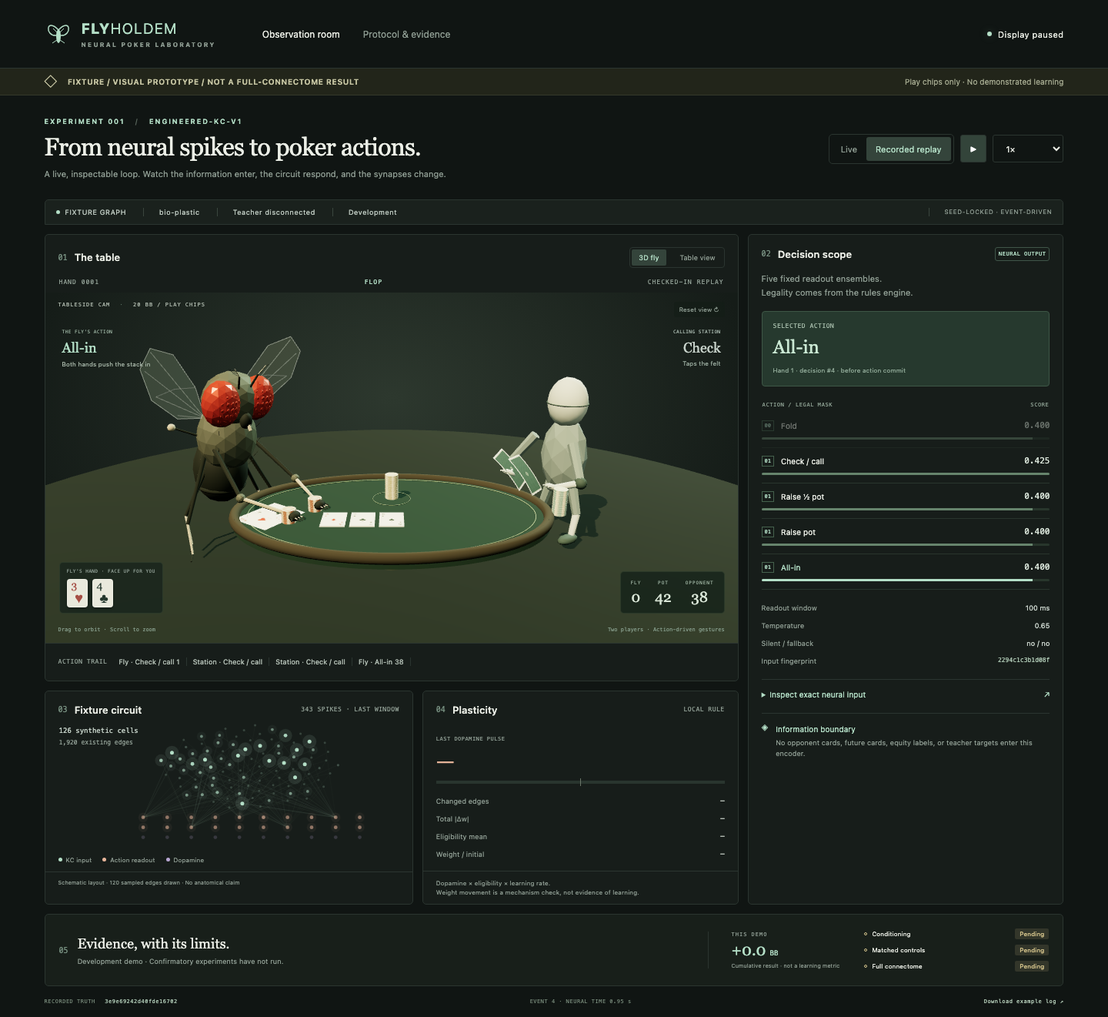
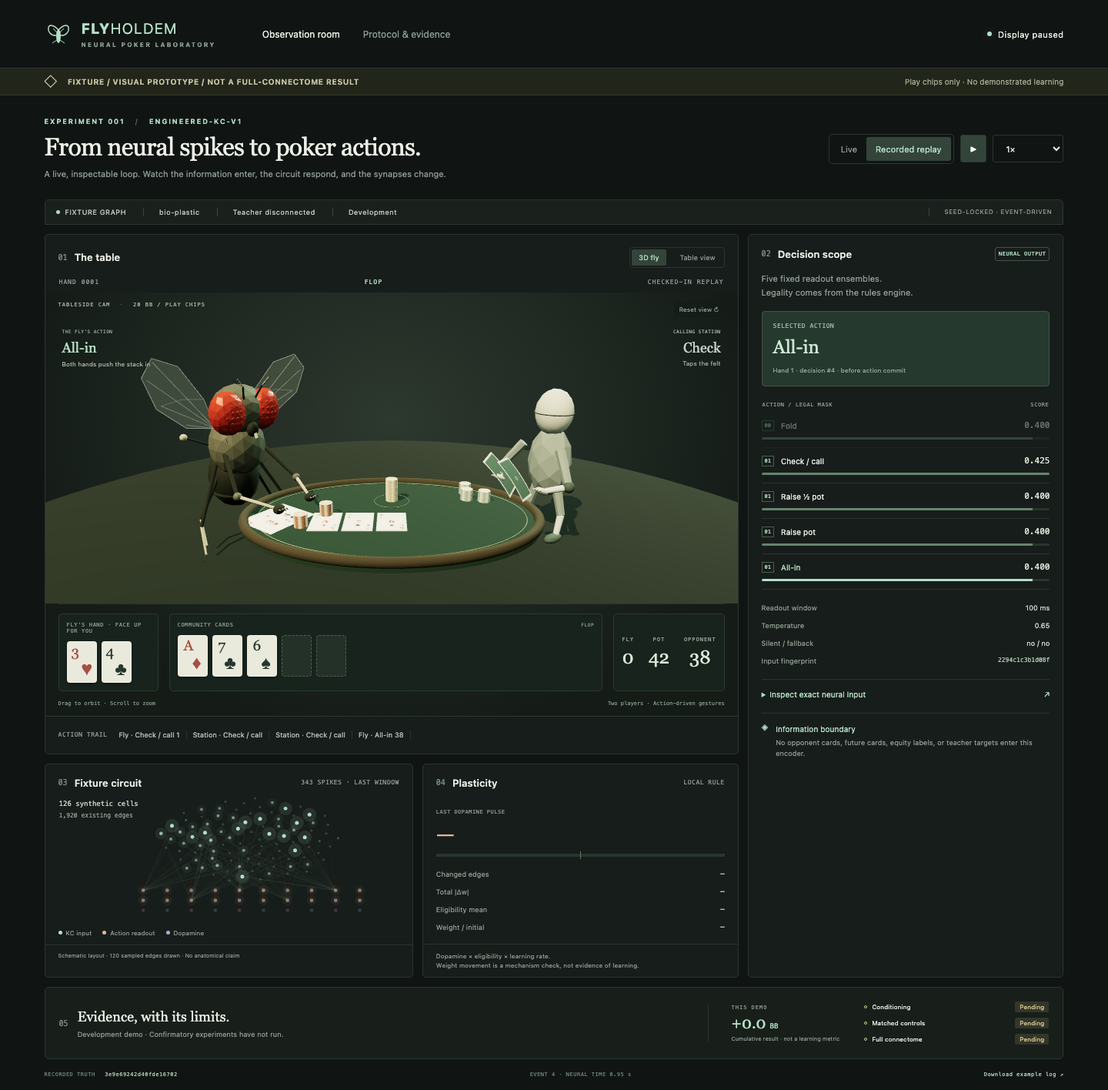
feat: clarify community cards and both chip stacks

diff --git a/ui/index.html b/ui/index.html
@@ -9,7 +9,7 @@
 <div class="lab-grid">
 <section class="panel table-panel"><div class="panel-heading"><div><span class="index">01</span><h2>The table</h2></div><div class="table-view-switch"><button id="view-fly" class="active">3D fly</button><button id="view-table">Table view</button></div></div>
 <div class="table-status"><span id="hand">HAND —</span><span id="street">WAITING FOR FIRST EVENT</span><span id="source">LIVE STREAM</span></div>
-<div id="avatar-stage" class="avatar-stage"><canvas id="fly-avatar" aria-label="A fly and an abstract opponent seated at opposite sides, holding curved cards and moving their hands to play"></canvas><div class="avatar-top"><span class="micro">TABLESIDE CAM <i>·</i> 20 BB / PLAY CHIPS</span><button id="reset-camera" title="Reset spectator camera">Reset view ↻</button></div><div class="avatar-action"><span class="micro">THE FLY'S ACTION</span><strong id="avatar-action">Taking its seat</strong><small id="avatar-motion">Hands follow the recorded action</small></div><div class="avatar-opponent"><span class="micro">CALLING STATION</span><strong id="avatar-opponent-action">Taking its seat</strong><small id="avatar-opponent-motion">An abstract opponent</small></div><div class="avatar-hand"><span class="micro">FLY'S HAND · FACE UP FOR YOU</span><div id="avatar-cards" class="cards small"></div></div><div class="avatar-stacks"><div><span>FLY</span><strong id="avatar-stack-fly">—</strong></div><div><span>POT</span><strong id="avatar-pot">—</strong></div><div><span>OPPONENT</span><strong id="avatar-stack-other">—</strong></div></div><div class="avatar-bottom"><span>Drag to orbit · Scroll to zoom</span><span>Two players · Action-driven gestures</span></div><div id="avatar-error" hidden></div></div><div class="table-stage" id="table-map" hidden><div class="felt"><span class="felt-watermark">FLYHOLDEM<br><small>PLAY-CHIP EXPERIMENT</small></span></div><div class="seat opponent"><div class="seat-name"><i class="seat-dot"></i>CALLING STATION <span id="opp-button"></span></div><div id="opponent-cards" class="cards small"></div><div class="stack"><span id="opp-stack">—</span> <small>CHIPS</small></div></div><div class="community"><div class="pot-label">POT <strong id="pot">—</strong></div><div id="board" class="cards board"></div><div id="action-callout">Waiting for the circuit</div></div><div class="seat fly"><div class="stack"><span id="fly-stack">—</span> <small>CHIPS</small></div><div id="hole" class="cards small"></div><div class="seat-name"><i class="seat-dot mint"></i>FIXTURE FLY <span id="fly-button"></span></div></div><span class="table-caption">Opponent cards hidden until revealed at showdown</span></div>
+<div id="avatar-stage" class="avatar-stage"><canvas id="fly-avatar" aria-label="A fly and an abstract opponent seated at opposite sides, holding curved cards and moving their hands to play"></canvas><div class="avatar-top"><span class="micro">TABLESIDE CAM <i>·</i> 20 BB / PLAY CHIPS</span><button id="reset-camera" title="Reset spectator camera">Reset view ↻</button></div><div class="avatar-action"><span class="micro">THE FLY'S ACTION</span><strong id="avatar-action">Taking its seat</strong><small id="avatar-motion">Hands follow the recorded action</small></div><div class="avatar-opponent"><span class="micro">CALLING STATION</span><strong id="avatar-opponent-action">Taking its seat</strong><small id="avatar-opponent-motion">An abstract opponent</small></div><div class="avatar-hud"><div class="avatar-hand"><span class="micro">FLY'S HAND · FACE UP FOR YOU</span><div id="avatar-cards" class="cards small"></div></div><div class="avatar-community"><span class="micro">COMMUNITY CARDS <i id="avatar-board-stage">PREFLOP</i></span><div id="avatar-community-cards" class="cards" aria-label="Public community cards"></div></div><div class="avatar-stacks"><div><span>FLY</span><strong id="avatar-stack-fly">—</strong></div><div><span>POT</span><strong id="avatar-pot">—</strong></div><div><span>OPPONENT</span><strong id="avatar-stack-other">—</strong></div></div></div><div class="avatar-bottom"><span>Drag to orbit · Scroll to zoom</span><span>Two players · Action-driven gestures</span></div><div id="avatar-error" hidden></div></div><div class="table-stage" id="table-map" hidden><div class="felt"><span class="felt-watermark">FLYHOLDEM<br><small>PLAY-CHIP EXPERIMENT</small></span></div><div class="seat opponent"><div class="seat-name"><i class="seat-dot"></i>CALLING STATION <span id="opp-button"></span></div><div id="opponent-cards" class="cards small"></div><div class="stack"><span id="opp-stack">—</span> <small>CHIPS</small></div></div><div class="community"><div class="pot-label">POT <strong id="pot">—</strong></div><div id="board" class="cards board"></div><div id="action-callout">Waiting for the circuit</div></div><div class="seat fly"><div class="stack"><span id="fly-stack">—</span> <small>CHIPS</small></div><div id="hole" class="cards small"></div><div class="seat-name"><i class="seat-dot mint"></i>FIXTURE FLY <span id="fly-button"></span></div></div><span class="table-caption">Opponent cards hidden until revealed at showdown</span></div>
 <div class="history"><span class="micro">ACTION TRAIL</span><div id="history">A new hand is about to begin.</div></div></section>
 <section class="panel decision-panel"><div class="panel-heading"><div><span class="index">02</span><h2>Decision scope</h2></div><span class="live-tag">NEURAL OUTPUT</span></div><p class="panel-copy">Five fixed readout ensembles.<br>Legality comes from the rules engine.</p><div class="selected-box"><span class="micro">SELECTED ACTION</span><strong id="chosen">Awaiting spikes</strong><span id="decision-context">The fly acts from its information set.</span></div><div class="score-head"><span>ACTION / LEGAL MASK</span><span>SCORE</span></div><div id="scores"></div><div class="decision-details"><div><span>Readout window</span><strong>100 ms</strong></div><div><span>Temperature</span><strong id="temperature">—</strong></div><div><span>Silent / fallback</span><strong id="silent">—</strong></div><div><span>Input fingerprint</span><code id="input-hash">—</code></div></div><details id="input-details"><summary>Inspect exact neural input <span>↗</span></summary><p class="micro">NONZERO CHANNELS · ENGINEERED-KC-V1</p><div id="channels"></div><details><summary>Canonical visible observation</summary><pre id="observation"></pre></details></details><div class="boundary"><span>◈</span><p>Information boundary<br><small>No opponent cards, future cards, equity labels, or teacher targets enter this encoder.</small></p></div></section>
 <section class="panel brain-panel"><div class="panel-heading"><div><span class="index">03</span><h2>Fixture circuit</h2></div><span id="spikes" class="micro">0 SPIKES</span></div><div class="brain-wrap"><canvas id="brain" aria-label="Live synthetic fixture neural activity"></canvas><div class="brain-note">126 synthetic cells<br><span>1,920 existing edges</span></div></div><div class="legend"><span><i class="mint-bg"></i>KC input</span><span><i class="peach-bg"></i>Action readout</span><span><i class="purple-bg"></i>Dopamine</span></div><div class="panel-foot">Schematic layout · 120 sampled edges drawn · No anatomical claim</div></section>

diff --git a/ui/src/fly-avatar.js b/ui/src/fly-avatar.js
@@ -150,7 +150,7 @@ function cardTexture(code){
  }else if(/^[2-9TJQKA][cdhs]$/.test(code)){
   const rank=code[0]==='T'?'10':code[0],suit={c:'♣',d:'♦',h:'♥',s:'♠'}[code[1]];
   ctx.fillStyle='dh'.includes(code[1])?'#a64234':'#20372a';ctx.font='bold 55px Georgia';ctx.fillText(rank,24,65);ctx.font='44px Georgia';ctx.fillText(suit,25,113);
-  ctx.textAlign='center';ctx.font='116px Georgia';ctx.fillText(suit,128,230);
+  ctx.textAlign='center';ctx.font='bold 80px Georgia';ctx.fillText(rank,128,209);ctx.font='68px Georgia';ctx.fillText(suit,128,278);
   ctx.save();ctx.translate(256,356);ctx.rotate(Math.PI);ctx.textAlign='left';ctx.font='bold 55px Georgia';ctx.fillText(rank,24,65);ctx.font='44px Georgia';ctx.fillText(suit,25,113);ctx.restore();
  }
  const texture=new T.CanvasTexture(canvas);texture.colorSpace=T.SRGBColorSpace;texture.anisotropy=4;textureCache.set(code,texture);return texture;
@@ -163,7 +163,7 @@ function changeCard(mesh,code){
  const front=mesh.userData.front||mesh.material[4];front.map=cardTexture(code);front.needsUpdate=true;mesh.userData.card=code;
 }
 function curvedCard(code){
- const group=new T.Group(),geometry=new T.PlaneGeometry(.48,.67,8,20);
+ const group=new T.Group(),geometry=new T.PlaneGeometry(.56,.78,8,20);
  const front=material(0xffffff,{map:cardTexture(code),roughness:.84,side:T.FrontSide});
  const back=material(0xffffff,{map:cardTexture('??'),roughness:.84,side:T.BackSide});
  const face=new T.Mesh(geometry,front),reverse=new T.Mesh(geometry,back);face.castShadow=true;
@@ -173,7 +173,7 @@ function curvedCard(code){
 function bendCard(card,bend){
  if(Math.abs(card.userData.bend-bend)<.0001)return;
  const geometry=card.userData.geometry,p=geometry.attributes.position;
- for(let i=0;i<p.count;i++){const v=p.getY(i)/.67+.5;p.setZ(i,-bend*v*v)}
+ for(let i=0;i<p.count;i++){const v=p.getY(i)/.78+.5;p.setZ(i,-bend*v*v)}
  p.needsUpdate=true;geometry.computeVertexNormals();card.userData.bend=bend;
 }
 
@@ -204,7 +204,10 @@ function playerRig(model,x,yaw,color){
  const seat=new T.Group();seat.position.set(x,0,0);seat.rotation.y=yaw;seat.add(model.root);
  const cards=[curvedCard('??'),curvedCard('??')];cards.forEach(c=>seat.add(c));
  const holding=cardOrientation(x<0?-1:1),faceDown=new T.Quaternion().setFromEuler(new T.Euler(Math.PI/2,0,0)),faceUp=new T.Quaternion().setFromEuler(new T.Euler(-Math.PI/2,0,0));
- const bank=pile(seat,.63,-.20,color,12),flying=new T.Group();seat.add(flying);
+ const bank=new T.Group();seat.add(bank);
+ // Three readable stacks sit within the rail, mirrored for the second seat.
+ for(let i=0;i<18;i++){const stack=i%3,layer=Math.floor(i/3);chip(bank,color,[(x<0?1:-1)*(.63+(stack-1)*.23),.81+layer*.033,.15+(stack===1?.19:0)])}
+ const flying=new T.Group();seat.add(flying);
  const movingLeft=pile(flying,-.27,0,color,6),movingRight=pile(flying,.27,0,color,6);flying.visible=false;
  return {seat,model,cards,holding,faceDown,faceUp,bank,flying,movingLeft,movingRight,action:null,elapsed:0,actionHash:null,
   actionFrames:0,left:[...restLeft],right:[...restRight],folded:false,laidDown:false};
@@ -252,7 +255,7 @@ export function createFlyViewer(canvas,onFailure){
  const camera=new T.PerspectiveCamera(36,1,.1,50);
  const controls=new OrbitControls(camera,canvas);controls.enableDamping=true;controls.enablePan=false;controls.minDistance=5;controls.maxDistance=16;
  controls.minPolarAngle=.28;controls.maxPolarAngle=1.40;controls.minAzimuthAngle=-.85;controls.maxAzimuthAngle=.85;
- function resetCamera(){camera.position.set(0,3.9,7.8);controls.target.set(0,1.35,-.12);controls.update()}
+ function resetCamera(){camera.position.set(0,3.42,6.25);controls.target.set(0,1.35,-.12);controls.update()}
  resetCamera();
  const floor=new T.Mesh(new T.CircleGeometry(8,80),material(0x18221b,{roughness:1}));floor.rotation.x=-Math.PI/2;floor.position.y=.015;floor.receiveShadow=true;scene.add(floor);
  const table=new T.Mesh(new T.CylinderGeometry(2.35,2.38,.14,96),material(0x1d3528,{roughness:.95}));table.position.set(0,.70,.22);table.scale.set(1,1,.66);table.receiveShadow=true;scene.add(table);
@@ -263,10 +266,10 @@ export function createFlyViewer(canvas,onFailure){
  const fly=playerRig(makeFly(),-1.95,.95,0xa16d4e),other=playerRig(makeOpponent(),1.95,-.95,0x8eab9c);
  // Mirror the abstract player's card fan so both hands face their holder.
  const players=[fly,other];players.forEach(p=>scene.add(p.seat));
- const board=Array.from({length:5},(_,i)=>{const c=cardMesh('??',.36,.51);c.position.set((i-2)*.42,.785,.58);c.rotation.x=-Math.PI/2;c.visible=false;scene.add(c);return c});
+ const board=Array.from({length:5},(_,i)=>{const c=cardMesh('??',.46,.65);c.position.set((i-2)*.51,.785,.58);c.rotation.x=-Math.PI/2;c.visible=false;scene.add(c);return c});
  const pot=pile(scene,0,-.28,0xb7b189,12);
  let event=null,clock=0,last=performance.now(),paused=false,frame=0,disposed=false,visible=true,lastEventHash=null;
- function setStack(group,value){group.children.forEach((c,i)=>c.visible=i<Math.min(12,Math.ceil(value/2)))}
+ function setStack(group,value){group.children.forEach((c,i)=>c.visible=i<Math.min(group.children.length,Math.ceil(value/2)))}
  function update(e){
   if(e.hash===lastEventHash)return;event=e;lastEventHash=e.hash;const t=e.table;
   fly.cards.forEach((c,i)=>{changeCard(c,t.hole[i]||'??');c.visible=Boolean(t.hole[i])});
@@ -288,7 +291,7 @@ export function createFlyViewer(canvas,onFailure){
    if(canvas.width!==Math.round(rect.width*renderer.getPixelRatio())||canvas.height!==Math.round(rect.height*renderer.getPixelRatio())){
     renderer.setSize(rect.width,rect.height,false);camera.aspect=rect.width/rect.height;
     // Fit the same two complete silhouettes on a narrow screen.
-    camera.fov=2*Math.atan(Math.tan(36*Math.PI/360)*Math.max(1,1.80/camera.aspect))*180/Math.PI;camera.updateProjectionMatrix();
+    camera.fov=2*Math.atan(Math.tan(36*Math.PI/360)*Math.max(1,2.15/camera.aspect))*180/Math.PI;camera.updateProjectionMatrix();
    }
    players.forEach(p=>animatePlayer(p,clock,paused));
    controls.update();renderer.render(scene,camera);
@@ -300,7 +303,7 @@ export function createFlyViewer(canvas,onFailure){
   const head=p.seat.localToWorld(V(0,2.28,-.91));
   return {action_hash:p.actionHash,action:p.action?.id??null,check:p.action?.check??false,paid:p.action?.paid??0,
    hole:p.cards.filter(c=>c.visible).map(c=>c.userData.card),left:[...p.left],right:[...p.right],elapsed:p.elapsed,action_frames:p.actionFrames,
-   position:p.seat.position.toArray(),yaw:p.seat.rotation.y,
+   position:p.seat.position.toArray(),yaw:p.seat.rotation.y,visible_chip_count:p.bank.children.filter(c=>c.visible).length,
    cards:p.cards.map(c=>{const position=c.getWorldPosition(V(0,0,0)),normal=V(0,0,1).applyQuaternion(c.getWorldQuaternion(new T.Quaternion()));return {
     bend:c.userData.bend,holder_facing:normal.dot(head.clone().sub(position).normalize()),viewer_facing:normal.dot(camera.position.clone().sub(position).normalize()),
     printed_side:'front-only',back:'pattern',position:position.toArray()};}),

diff --git a/ui/src/style.css b/ui/src/style.css
@@ -8,3 +8,9 @@
 @media(max-width:650px){.avatar-stage{height:365px}.avatar-action{left:12px;top:40px;max-width:140px}.avatar-action strong,.avatar-opponent strong{font-size:17px}.avatar-action small,.avatar-opponent small{font-size:7px;max-width:125px}.avatar-opponent{right:12px;top:40px}.avatar-opponent>.micro{font-size:6px}.avatar-hand .card{width:25px;height:34px}.avatar-stacks{gap:10px}.avatar-stacks strong{font-size:17px}}
 
 .avatar-action,.avatar-opponent{top:38px}.avatar-action small{max-width:190px}.avatar-action strong,.avatar-opponent strong{font-size:18px}.avatar-action .micro,.avatar-opponent .micro{font-size:6px}
+
+/* Readable cards stay in a dedicated rail below the 3D scene. */
+.avatar-stage{height:auto}.avatar-stage canvas{height:400px}.avatar-hud{position:relative;display:grid;grid-template-columns:130px minmax(230px,1fr) auto;gap:14px;align-items:stretch;margin:0 17px;padding-top:12px;border-top:1px solid #53644d50}.avatar-hand,.avatar-stacks,.avatar-community{position:static;backdrop-filter:none;background:#17231c;border:1px solid #50604b60;border-radius:5px;padding:10px}.avatar-hand>.micro,.avatar-community>.micro{display:block;font-size:7px;margin-bottom:9px;letter-spacing:.65px}.avatar-community>.micro{display:flex;justify-content:space-between;gap:8px}.avatar-community i{font-style:normal;color:#8ca690;font-size:6px}.avatar-hand .cards,.avatar-community .cards{justify-content:flex-start;gap:6px}.avatar-hand .card,.avatar-community .card{width:39px;height:54px;font-size:19px}.avatar-hand .card .suit,.avatar-community .card .suit{font-size:23px}.avatar-community .card.empty{background:#243129;border:1px dashed #4a604d}.avatar-stacks{align-items:center;justify-content:space-evenly;gap:19px}.avatar-stacks strong{font-size:24px}.avatar-stacks span{font-size:7px}.avatar-bottom{position:static;padding:12px 17px}.avatar-action,.avatar-opponent{top:38px}
+@media(max-width:650px){.avatar-stage canvas{height:295px}.avatar-hud{grid-template-columns:88px 1fr;gap:8px;margin:0 10px}.avatar-hand,.avatar-community{padding:8px 6px}.avatar-hand>.micro,.avatar-community>.micro{font-size:5px;letter-spacing:.2px}.avatar-community i{font-size:5px}.avatar-hand .cards,.avatar-community .cards{gap:4px}.avatar-hand .card,.avatar-community .card{width:32px;height:46px;font-size:17px}.avatar-hand .card .suit,.avatar-community .card .suit{font-size:21px}.avatar-stacks{grid-column:1/-1;padding:8px;gap:12px}.avatar-stacks>div{flex-direction:row;align-items:center;gap:10px}.avatar-stacks strong{font-size:22px}.avatar-stacks span{font-size:6px}.avatar-bottom{font-size:5px;padding:12px 10px}}
+
+.avatar-stage{padding-top:64px}.avatar-stage canvas{height:340px}@media(max-width:650px){.avatar-stage canvas{height:255px}}

diff --git a/ui/src/app.js b/ui/src/app.js
@@ -8,7 +8,7 @@ const errors=[];
 window.addEventListener('error', e => errors.push(e.message));
 window.flyholdem = {get latest(){return latest}, get mode(){return mode}, get avatar(){return avatar}, errors};
 function card(value){
- const el=document.createElement('span'); el.className='card';
+ const el=document.createElement('span'); el.className='card';el.dataset.card=value||'';
  if(value==='??'){el.classList.add('back');el.textContent='◇';return el}
  if(!value){el.classList.add('empty');return el}
  if(!/^[2-9TJQKA][cdhs]$/.test(value))throw Error('Invalid event card');
@@ -34,7 +34,7 @@ function render(event){
  latest=event;
  if(event.sequence===0)resetPlasticity();
  avatar?.update(event);
- cards("avatar-cards",event.table.hole,2);
+ cards("avatar-cards",event.table.hole,2);cards("avatar-community-cards",event.table.board,5);$("avatar-board-stage").textContent=event.table.street;
  $("avatar-stack-fly").textContent=event.table.stacks[0];$("avatar-stack-other").textContent=event.table.stacks[1];$("avatar-pot").textContent=event.table.pot;
  if(event.kind==="hand_start"){$("avatar-action").textContent="Looking at its cards";$("avatar-motion").textContent="A new hand. Waiting for neural output."}
  if(event.decision){

diff --git a/scripts/avatar_check.py b/scripts/avatar_check.py
@@ -29,11 +29,17 @@ with sync_playwright() as p:
         assert card['printed_side']=='front-only' and card['back']=='pattern'
     assert initial['opponent']['hole']==['??','??']
     natural_cards=initial['cards']
-    found={};opponent_found={};deadline=time.monotonic()+65
+    found={};opponent_found={};board_lengths=set();deadline=time.monotonic()+65
     while time.monotonic()<deadline and (len(found)<6 or len(opponent_found)<2):
         state=page.evaluate('({event:window.flyholdem.latest,avatar:window.flyholdem.avatar.snapshot()})')
         a,e=state['avatar'],state['event']
         opponent=a['opponent']
+        board_lengths.add(len(e['table']['board']))
+        # The browser may advance between tool reads; compare within one JS task.
+        inset=page.evaluate("({board:window.flyholdem.latest.table.board,shown:[...document.querySelectorAll('#avatar-community-cards .card')].map(n=>n.dataset.card).filter(Boolean)})")
+        assert inset['board']==inset['shown']
+        assert (a['visible_chip_count']>0)==(e['table']['stacks'][0]>0)
+        assert (opponent['visible_chip_count']>0)==(e['table']['stacks'][1]>0)
         assert opponent['hole']==e['table']['opponent_hole'], 'Never reveal private opponent cards'
         if e['kind']=='opponent_action' and .15<opponent['elapsed']<.72:
             label='check' if opponent['check'] else 'call'
@@ -77,6 +83,7 @@ with sync_playwright() as p:
             page.get_by_role('button',name='Resume display').click()
         page.wait_for_timeout(40)
     assert len(found)==6, f'Missing real gesture coverage: {found.keys()}'
+    assert {0,3,5}.issubset(board_lengths), board_lengths
     assert len(opponent_found)==2, f'Missing opponent gestures: {opponent_found.keys()}'
     page.get_by_role('button',name='Pause display').click()
     page.get_by_role('button',name='Table view',exact=True).click()
@@ -101,7 +108,8 @@ with sync_playwright() as p:
     snapshot=page.evaluate('window.flyholdem.avatar.snapshot()')
     report={'status':'pass','scope':'illustrative action-driven avatar, not a body simulation',
         'live_event_card_match':True,'replay_event_card_match':True,'six_gestures':found,'opponent_gestures':opponent_found,
-        'curved_holder_and_viewer_facing_cards':natural_cards,'opponent_information_boundary':True,
+        'curved_holder_and_viewer_facing_cards':natural_cards,'opponent_information_boundary':True,'community_inset_matches_events':True,
+        'community_card_counts_seen':sorted(board_lengths),'both_chip_stacks_match_zero_or_positive_balance':True,
         'full_silhouette_bounds':{'desktop':desktop_bounds,'mobile':mobile_bounds},
         'pause_freezes_both_players':True,'camera_reset':True,'table_toggle':True,
         'desktop':[1440,1080],'mobile':[390,844],'browser':browser.version,

diff --git a/PROGRESS.md b/PROGRESS.md
@@ -1,7 +1,7 @@
 # FlyHoldem progress
 
 ## Current phase
-Latest requested two-player scene revision passed local browser checks and is ready to save/push. Fly stands at the table side with curved, holder-facing cards; an abstract opponent makes its actual poker gestures. M2 numerical checkpoint 8d6f69c is published and CI passed. Next: checksum-verified official MaleCNS download, streaming import/preparation and audit. No teacher or poker training started.
+Card-readability revision passed local browser checks and is ready to save/push. Larger 3D cards, matched fly/community insets and visible opponent chip piles now work on desktop/mobile. Previous side-seating checkpoint 80a32fd passed CI (run 34677267958). All three official MaleCNS files have downloaded and independently matched the committed byte counts/SHA-256 expectations. Import/preparation code is a tested draft, not yet run on the full data; save its own checkpoint/config before starting the import. No teacher or poker training started.
 
 ## Completed acceptance checks
 - Read execution brief/specification/setup context and applicable ancestor AGENTS.md paths (none existed).
@@ -39,6 +39,11 @@ uv run python scripts/avatar_check.py
 ```
 Demo URL: http://127.0.0.1:8766. Default seed 20260912, graph/mapping seed 1729. One command serves backend/UI. Browser check expects running server.
 
+## Latest readability evidence
+- All six fly gestures and both real opponent gestures still pass Chromium checks. Community inset matches actual events for 0/3/4/5 dealt cards. Both players show chips iff their balance is positive. Full models remain in the desktop/mobile camera frame; no page errors or horizontal overflow.
+- Existing 36 core tests pass; four additional importer-draft tests also pass (40 total with the optional data packages installed). The two independent Brian2 tests remain in their separate passing oracle environment.
+- Data download verified: annotations 14,483,314 bytes, neurotransmitters 43,282,834 bytes, edges 1,051,241,946 bytes. Exact digests match data-provenance/malecns_v1/source.lock.json. Raw data stays ignored.
+
 ## Current visual revision evidence
 - Core: 36 passed, two Brian2 tests intentionally skipped in the base environment; both run and pass in the separate Python 3.12 oracle, including CI.
 - Browser: all six fly gestures plus actual opponent check/call, matching action/event hashes and cards, opponent privacy including mucked cards, pause for both players, table toggle, camera reset, desktop 1440×1080 and mobile 390×844 full silhouette bounds. No browser errors.
@@ -66,10 +71,10 @@ The user requested a visible animated fly like the Doom/döner examples, with it
 - Atomic native-state checkpoint infrastructure is verified; full experiment/controller/game integration remains a runner milestone; V0 live logs are append-only, fsynced after completed hands, and ignored.
 
 ## Last stable commit
-V0: 2bd2d3c2fc6158248c4f633690b5d170add14b32 (visual-demo-v0), pushed. M0: fa873a6, pushed. Animated fly: 6aa7895, pushed. M1: c2f2ffe, pushed and CI green. Numerical: 8d6f69c, pushed and CI green (run 34676666552). The next visual checkpoint is `feat: seat both animated players beside the table`.
+V0: 2bd2d3c2fc6158248c4f633690b5d170add14b32 (visual-demo-v0), pushed. M0: fa873a6, pushed. Animated fly: 6aa7895, pushed. M1: c2f2ffe, pushed and CI green. Numerical: 8d6f69c, pushed and CI green (run 34676666552). Side seating: 80a32fd, pushed and CI green. The next visual checkpoint is `feat: clarify community cards and both chip stacks`.
 
 ## Resumable experiment command
 No long training experiment started. Reproduce visual run with `make demo`; replay with `make replay`. Current local live worker logs into a timestamped ignored runs/live-* directory.
 
 ## Next step
-Save/push the verified visual revision, then run `make fetch-malecns`. Expected source lock is already committed at data-provenance/malecns_v1/source.lock.json (1,109,008,094 bytes); registry refuses any mismatch. Download outputs stay in ignored connectome_data/malecns_v1 and resume partial files. Before import, implement/test streaming retention and CSR preparation, and commit the exact import/runtime config. Hardware measured: 16 GiB RAM, 77 GiB free disk. Run only one full-data/runtime worker at a time. Full biological conditioning and all poker-learning gates remain pending.
+Save/push the verified card-readability revision. Then finalize/importer audit tests and the exact runtime config, commit them, and run `make prepare-malecns`. Sources are verified and remain in ignored connectome_data/malecns_v1. Hardware measured: 16 GiB RAM, 77 GiB free before download. Run one full-data/runtime worker at a time; measure real peak memory and throughput before conditioning. No biological or poker learning gate has passed yet.

diff --git a/docs/UI.md b/docs/UI.md
@@ -19,3 +19,9 @@ The scene and its readable card/stack inset use the same event hash as the decis
 Three.js 0.186.0 is installed from the Node lockfile and served locally. WebGL 2 is required for the 3D scene. If unavailable, the viewer shows an explicit graphics error and the table view remains usable. The fixture/policy process does not depend on WebGL.
 
 Run `uv run python scripts/avatar_check.py` with the server active to verify all six fly gestures and the opponent's real check/call gestures, card/event correspondence, the opponent information boundary, positive card-face orientation toward both holder and default camera, two-hand all-in movement, pause for both rigs, full silhouette bounds, camera reset, desktop/mobile overflow and browser errors. Evidence is in `docs/review/avatar/`; `fly-action-demo.webm` records the actual browser.
+
+## Card and chip readability
+
+A dedicated strip below the 3D scene shows the fly's two cards, all five public community slots and exact balances. Community slots remain empty until the event deals them. The 3D cards are larger and use a larger central rank, while the inset remains readable on a narrow phone screen. Both players have three chip piles positioned inside the rail; their visible count follows the public balance and becomes zero when the stack is empty. The inset contains the exact chip amounts; mesh counts are illustrative.
+
+Browser checks compare the community strip with the canonical events on preflop, flop, turn and river, and verify chip visibility for zero/positive balances for both seats.
